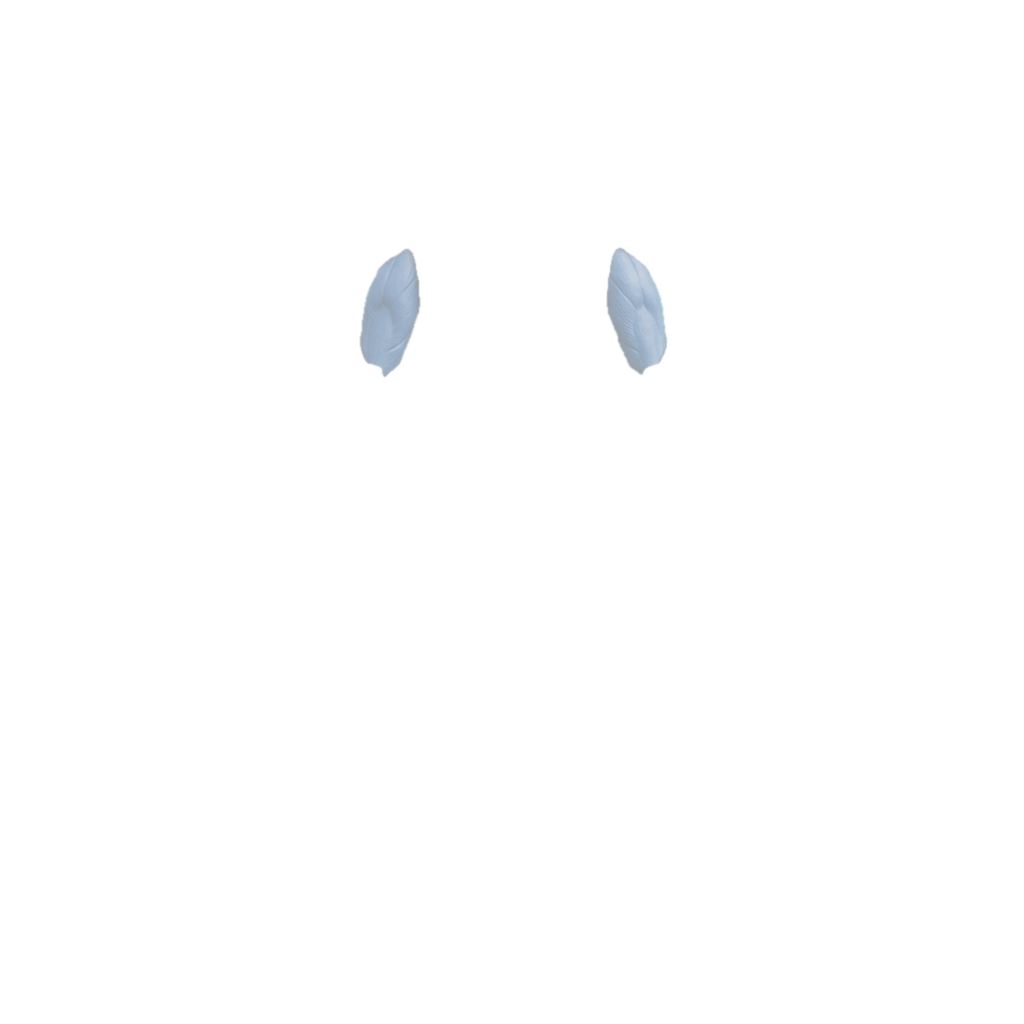
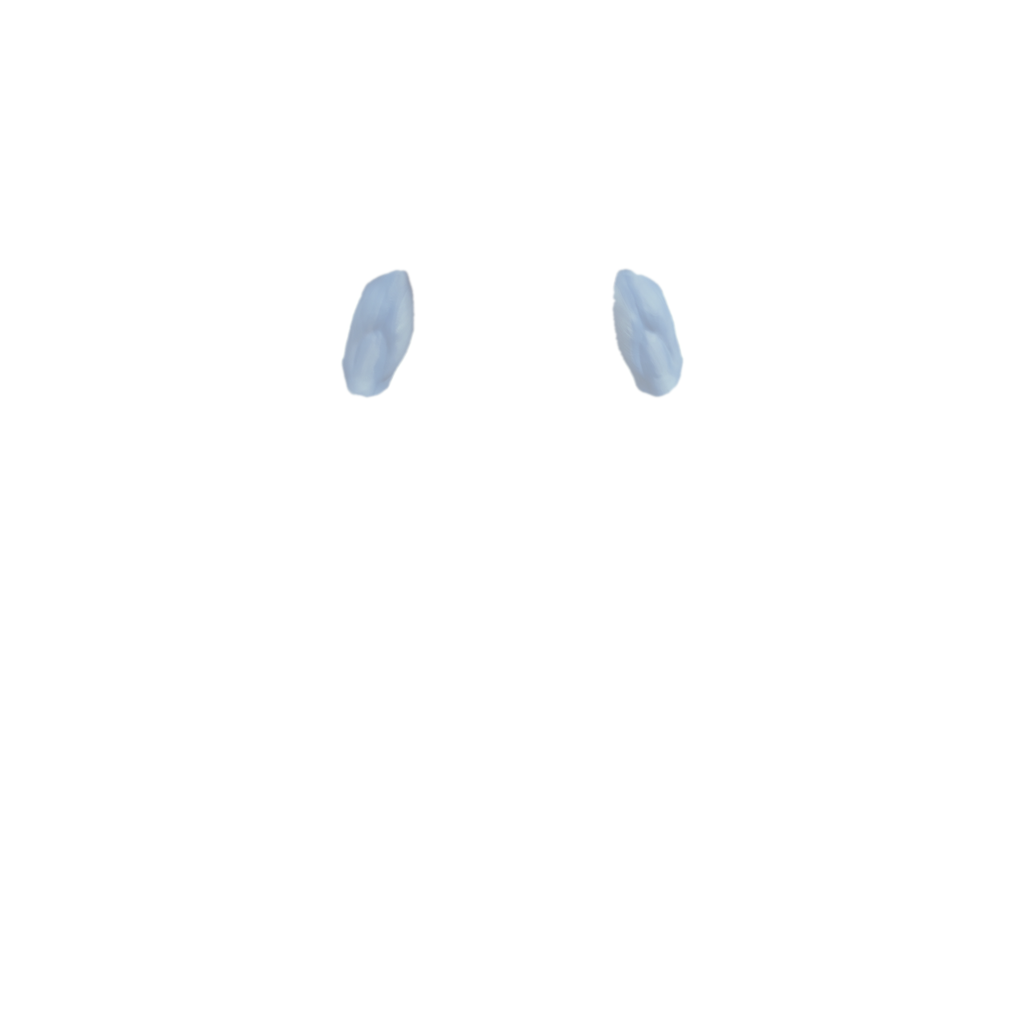
Paint rear delts and triceps, and pad the info sheet circle to 60px
Rear delts get primary and secondary painted layers like every other
region, so the mobile diagram has no tinted mask left: MASK_ONLY_REGIONS,
the mask branch in body-diagram.tsx and back_rear_delts_mask.png are gone
(the web keeps its own copy). Triceps layers replaced with the new paint.
circleCrop padding goes from 40 to 60 source px so the calves are not
clipped at the bottom of the circle. bounds.json regenerated.

Changed region(s): [[0.5938, 0.2188, 0.6875, 0.4062], [0.3125, 0.25, 0.4375, 0.4062]]

diff --git a/apps/mobile/src/components/body-diagram.tsx b/apps/mobile/src/components/body-diagram.tsx
@@ -4,8 +4,6 @@ import {
   bodyHighlightsLabel,
   circleCrop,
   highlightsForView,
-  PRIMARY_TINT,
-  SECONDARY_TINT,
   type BodyHighlights,
   type BodyRegion,
   type BodyView,
@@ -22,9 +20,8 @@ import bounds from '../../assets/images/muscles/bounds.json';
  * Layers, bottom to top: the base render, every secondary layer, every
  * primary layer. Each layer is a full 1024 PNG with the blue already
  * painted into the clay, registered to the base, so the diagram only
- * stacks them. Rear delts have no painted layer yet and use the old white
- * mask with a tintColor. All layers sit in one inner box scaled and offset
- * so the crop fills the frame; scaling that box rather than each layer
+ * stacks them. All layers sit in one inner box scaled and offset so the
+ * crop fills the frame; scaling that box rather than each layer
  * keeps them registered to the base.
  *
  * BodyDiagram is the whole figure (the Exercises tab exercise screen).
@@ -42,10 +39,10 @@ const BASES: Record<BodyView, ImageSourcePropType> = {
   posterior: require('../../assets/images/muscles/base_back.png'),
 };
 
-type Layer = { primary: ImageSourcePropType; secondary: ImageSourcePropType } | { mask: ImageSourcePropType };
+type Level = 'primary' | 'secondary';
 
 /** Static requires, since Metro cannot resolve a path built at runtime. */
-const LAYERS: Record<BodyRegion, Layer> = {
+const LAYERS: Record<BodyRegion, Record<Level, ImageSourcePropType>> = {
   front_chest: {
     primary: require('../../assets/images/muscles/front_chest_primary.png'),
     secondary: require('../../assets/images/muscles/front_chest_secondary.png'),
@@ -78,7 +75,10 @@ const LAYERS: Record<BodyRegion, Layer> = {
     primary: require('../../assets/images/muscles/back_traps_primary.png'),
     secondary: require('../../assets/images/muscles/back_traps_secondary.png'),
   },
-  back_rear_delts: { mask: require('../../assets/images/muscles/back_rear_delts_mask.png') },
+  back_rear_delts: {
+    primary: require('../../assets/images/muscles/back_rear_delts_primary.png'),
+    secondary: require('../../assets/images/muscles/back_rear_delts_secondary.png'),
+  },
   back_lats: {
     primary: require('../../assets/images/muscles/back_lats_primary.png'),
     secondary: require('../../assets/images/muscles/back_lats_secondary.png'),
@@ -113,30 +113,24 @@ const LAYERS: Record<BodyRegion, Layer> = {
   },
 };
 
-type Level = 'primary' | 'secondary';
-
 /** Alpha boxes from bounds.json, keyed by file name without the extension. */
 const BOUNDS: Record<string, number[] | undefined> = bounds.layers;
 
 function layerBox(region: BodyRegion, level: Level): LayerBox | undefined {
-  return BOUNDS['mask' in LAYERS[region] ? `${region}_mask` : `${region}_${level}`] as LayerBox | undefined;
+  return BOUNDS[`${region}_${level}`] as LayerBox | undefined;
 }
 
 /** The base and the lit layers, each filling the parent, which stands for the 1024 canvas. */
 function Layers({ type, highlights }: Props) {
-  const layer = (region: BodyRegion, level: Level) => {
-    const l = LAYERS[region];
-    if ('mask' in l) {
-      const tintColor = level === 'primary' ? PRIMARY_TINT : SECONDARY_TINT;
-      return <Image key={region} source={l.mask} style={[styles.layer, { tintColor }]} />;
-    }
-    return <Image key={region} source={l[level]} style={styles.layer} />;
-  };
   return (
     <>
       <Image source={BASES[type]} style={styles.layer} />
-      {highlights.secondary.map((r) => layer(r, 'secondary'))}
-      {highlights.primary.map((r) => layer(r, 'primary'))}
+      {highlights.secondary.map((r) => (
+        <Image key={r} source={LAYERS[r].secondary} style={styles.layer} />
+      ))}
+      {highlights.primary.map((r) => (
+        <Image key={r} source={LAYERS[r].primary} style={styles.layer} />
+      ))}
     </>
   );
 }

diff --git a/packages/shared/src/body-layers.ts b/packages/shared/src/body-layers.ts
@@ -37,12 +37,6 @@ export const BACK_REGIONS = [
 export type BodyRegion = (typeof FRONT_REGIONS)[number] | (typeof BACK_REGIONS)[number];
 
 /**
- * Regions with no painted layer yet. They are drawn from the old white mask
- * with a tint, as before.
- */
-export const MASK_ONLY_REGIONS: readonly BodyRegion[] = ["back_rear_delts"];
-
-/**
  * Canonical muscle to the regions it lights. There is no upper back region:
  * "upper back" (which "middle back" canonicalizes to) lights traps and lats.
  * Neck lights nothing.
@@ -133,7 +127,7 @@ export function bodyHighlightsLabel(h: BodyHighlights): string {
 export type LayerBox = readonly [number, number, number, number];
 
 /** Padding around the highlighted muscles, in source pixels. */
-export const CIRCLE_PADDING = 40;
+export const CIRCLE_PADDING = 60;
 /**
  * The smallest crop, in source pixels, which caps the zoom. At 360 a calf
  * or an abductor still shows the legs and hips around it.

diff --git a/packages/shared/src/body-layers.test.ts b/packages/shared/src/body-layers.test.ts
@@ -56,7 +56,15 @@ describe("circleCrop", () => {
       [400, 200, 600, 300],
       [450, 250, 700, 500],
     ]);
-    expect(crop).toEqual({ cx: 550, cy: 350, diameter: Math.hypot(300, 300) + CIRCLE_PADDING * 2 });
+    expect(CIRCLE_PADDING).toBe(60);
+    expect(crop).toEqual({ cx: 550, cy: 350, diameter: Math.hypot(300, 300) + 120 });
+  });
+
+  it("leaves room below the calves", () => {
+    // back_calves_primary's alpha box from bounds.json.
+    const crop = circleCrop([[395, 712, 630, 862]])!;
+    // The circle's lowest point sits below the calves by at least the padding.
+    expect(crop.cy + crop.diameter / 2 - 862).toBeGreaterThanOrEqual(60);
   });
 
   it("caps the zoom for a small muscle", () => {

diff --git a/docs/body-diagram.md b/docs/body-diagram.md
@@ -22,12 +22,10 @@ Since 29 Sep 2026 the two apps draw it differently:
 one canvas so every file is registered to its base:
 
 - `base_front`, `base_back`: the clay figure, transparent background.
-- `<view>_<region>_primary` and `<view>_<region>_secondary` for 16 regions:
-  the region painted blue, transparent everywhere else. Secondary is the
-  lighter, partly transparent version.
-- `back_rear_delts_mask`: there is no painted rear delts layer yet, so rear
-  delts keep the old white mask and are tinted in code (`#1B5FA8` primary,
-  `#A8C6E4` secondary).
+- `<view>_<region>_primary` and `<view>_<region>_secondary` for all 17
+  regions: the region painted blue, transparent everywhere else. Secondary
+  is the lighter, partly transparent version. Every region is painted;
+  nothing on mobile is tinted in code.
 - `bounds.json`: each layer's alpha bounding box, `[x0, y0, x1, y1]` with
   the ends exclusive. Regenerate it with
   `python3 apps/mobile/scripts/muscle-layer-bounds.py` (needs Pillow)
@@ -84,7 +82,8 @@ out of registration.
 `circleCrop` in `body-layers.ts`. Take the union of the lit layers' boxes
 from `bounds.json`. The crop circle is centred on the union, and its
 diameter is the union's diagonal (so the corners fit inside the circle)
-plus 40 source pixels of padding on each side. The diameter is at least
+plus 60 source pixels of padding on each side (raised from 40 on 30 Sep
+2026, when the calves looked clipped at the bottom of the circle). The diameter is at least
 360 source pixels, which caps the zoom at about 2.8 times the full-figure
 scale and keeps a calf or an abductor shown with the leg or hips around it.
 The centre is clamped so the circle stays on the canvas.

diff --git a/docs/roadmap.md b/docs/roadmap.md
@@ -107,7 +107,7 @@ Each of these waits for a signal from Phase 4 or 5.
 - Photo upload on a finished workout.
 - Editing a finished workout.
 - In-app haptics toggle, if anyone asks.
-- Body diagram repaint. Mobile done 29 Sep: the diagram stacks pre-rendered layers with the blue painted into the clay (docs/body-diagram.md). Still open: a painted rear delts layer (rear delts still use the tinted mask), and porting the layers to the web, which still tints 18 masks.
+- Body diagram repaint. Mobile done 29 Sep: the diagram stacks pre-rendered layers with the blue painted into the clay (docs/body-diagram.md). Rear delts painted 30 Sep, so every mobile region is a painted layer. Still open: porting the layers to the web, which still tints 18 masks.
 
 ## Payment infrastructure
 
